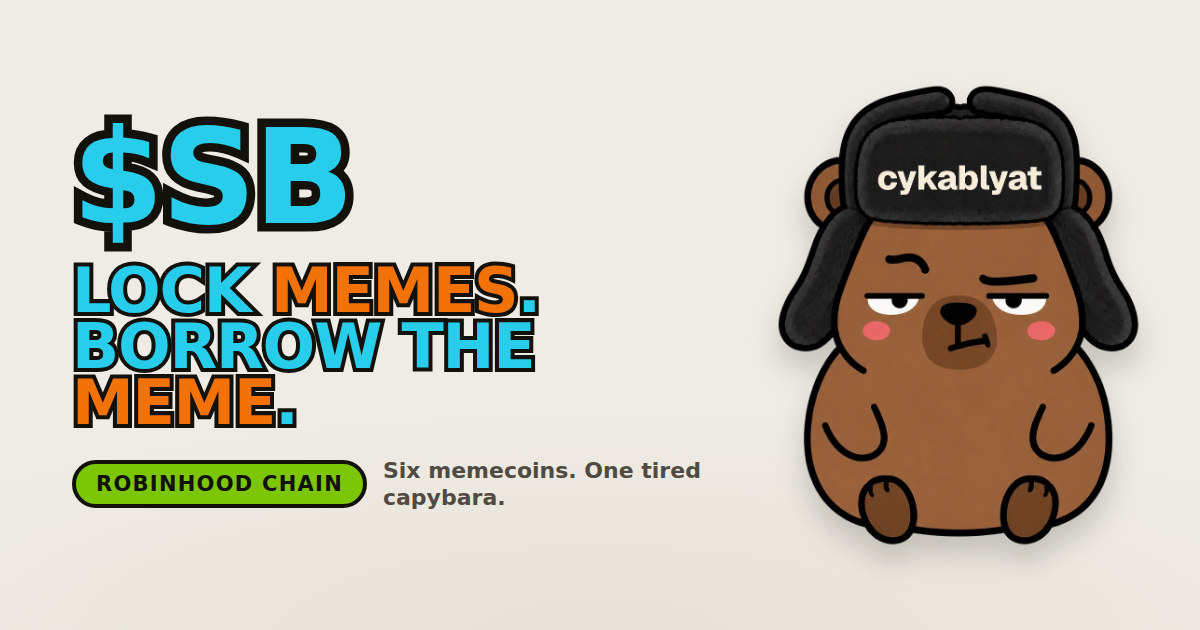
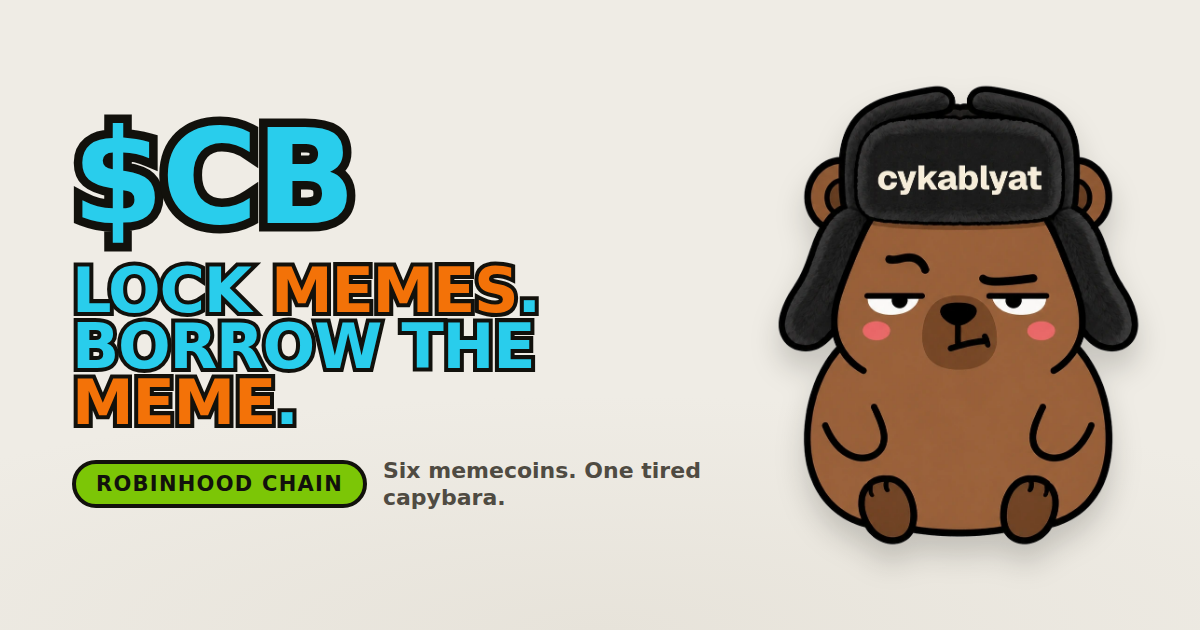
The token is $CB
The ticker followed the hat. It was $SB for "suka blyat"; the hat now says
cykablyat, so the coin is $CB and every counter, headline, aria-label and
share-card line says so.

The colour tokens are renamed with it — --sb/--sb-lit/--sb-deep become
--cb/--cb-lit/--cb-deep. They are the money colour, named after the ticker, and
leaving them on the old name is how a codebase ends up with tokens nobody can
explain. --font-sb is untouched: it is the typeface, and never meant the coin.

The favicon was a crop of the old artwork and still read "suka blyat" in the
browser tab — it is recut from the repainted mascot on the same framing. og.png
re-rendered again for the new ticker.

Not changed, because they are real accounts I cannot rename: the X handle
@sbmemecoin, t.me/sbmemetoken, and this repository's own name.

Verified: no $SB anywhere in the export, 22 viewports clean, no CSP violations,
no external requests, seven screens read by eye.

Claude-Session: https://claude.ai/code/session_01AwDL7xSUWu4HoaSM6g9izF

Changed region(s): [[0.1233, 0.181, 0.3083, 0.3921]]

diff --git a/src/components/JoinSection.tsx b/src/components/JoinSection.tsx
@@ -137,16 +137,16 @@ export function JoinSection() {
               aria-hidden="true"
             >
               <g className={s.spark} style={{ "--dx": "-52px", "--dy": "-46px" } as React.CSSProperties}>
-                <circle cx="100" cy="20" r="9" fill="var(--sb)" stroke="var(--ink)" strokeWidth="3" />
+                <circle cx="100" cy="20" r="9" fill="var(--cb)" stroke="var(--ink)" strokeWidth="3" />
               </g>
               <g className={s.spark} style={{ "--dx": "48px", "--dy": "-52px" } as React.CSSProperties}>
-                <circle cx="100" cy="20" r="7" fill="var(--sb)" stroke="var(--ink)" strokeWidth="3" />
+                <circle cx="100" cy="20" r="7" fill="var(--cb)" stroke="var(--ink)" strokeWidth="3" />
               </g>
               <g className={s.spark} style={{ "--dx": "-72px", "--dy": "-14px" } as React.CSSProperties}>
-                <circle cx="100" cy="20" r="6" fill="var(--sb)" stroke="var(--ink)" strokeWidth="3" />
+                <circle cx="100" cy="20" r="6" fill="var(--cb)" stroke="var(--ink)" strokeWidth="3" />
               </g>
               <g className={s.spark} style={{ "--dx": "70px", "--dy": "-8px" } as React.CSSProperties}>
-                <circle cx="100" cy="20" r="8" fill="var(--sb)" stroke="var(--ink)" strokeWidth="3" />
+                <circle cx="100" cy="20" r="8" fill="var(--cb)" stroke="var(--ink)" strokeWidth="3" />
               </g>
             </svg>
 

diff --git a/src/components/VaultSection.tsx b/src/components/VaultSection.tsx
@@ -191,7 +191,7 @@ export function VaultSection() {
         t.setAttribute("font-weight", "900");
         t.setAttribute("letter-spacing", "-0.4");
         t.setAttribute("fill", "#12110c");
-        t.textContent = "$SB";
+        t.textContent = "$CB";
         g.append(c, t);
 
         // Two tiers, tightened and dropped clear of the feet. Wider spacing put
@@ -395,13 +395,13 @@ export function VaultSection() {
 
       <div className="head" data-ent="up" data-ent-delay="90">
         <h1 className="sticker">
-          Lock them. Borrow <span className="hot">$SB</span>.
+          Lock them. Borrow <span className="hot">$CB</span>.
         </h1>
       </div>
 
       <div className={`middle ${s.middle}`} data-ent="up" data-ent-delay="240">
         <div className={s.readout}>
-          <div className={s.label}>$SB borrowed</div>
+          <div className={s.label}>$CB borrowed</div>
           <div className={s.value}>{borrowed.toLocaleString("en-US")}</div>
         </div>
 
@@ -414,7 +414,7 @@ export function VaultSection() {
             className={s.svg}
             viewBox="0 0 660 560"
             role="img"
-            aria-label="A machine that locks memecoins and pays out $SB"
+            aria-label="A machine that locks memecoins and pays out $CB"
           >
             <g ref={feedRef}>
               {/* Three layers, one job each: the outer group holds the coin's

diff --git a/src/components/HeroSection.tsx b/src/components/HeroSection.tsx
@@ -9,7 +9,7 @@ import { useAutoRearm } from "@/lib/useAutoRearm";
 import s from "./HeroSection.module.css";
 
 const MAX = 10;
-const PER = 4200; // $SB borrowed per coin
+const PER = 4200; // $CB borrowed per coin
 
 /** What he says, and when. Deadpan escalation. */
 const LINES: Record<number, string> = {
@@ -183,7 +183,7 @@ export function HeroSection() {
 
       <div className={`middle ${s.middle}`} data-ent="up" data-ent-delay="240">
         <div className={s.readout}>
-          <div className={s.label}>$SB borrowed</div>
+          <div className={s.label}>$CB borrowed</div>
           <div className={s.value}>{(fed * PER).toLocaleString("en-US")}</div>
         </div>
 
@@ -210,7 +210,7 @@ export function HeroSection() {
       <div className="bottom">
         <div className="hint" data-ent="up" data-ent-delay="430">
           {full
-            ? "Full. That is a lot of $SB."
+            ? "Full. That is a lot of $CB."
             : fed === 0
               ? "Feed him your bags — tap a coin"
               : `${fed} of ${MAX} bags locked`}

diff --git a/src/components/WakeSection.tsx b/src/components/WakeSection.tsx
@@ -110,7 +110,7 @@ export function WakeSection() {
 
       <div className="head" data-ent="up" data-ent-delay="90">
         <h1 className="sticker">
-          Why <span className="hot">$SB</span> exists.
+          Why <span className="hot">$CB</span> exists.
         </h1>
       </div>
 
@@ -149,12 +149,12 @@ export function WakeSection() {
               <path d="M652 442 v-96" fill="none" />
               <path
                 d="M618 292 L686 292 L678 346 L626 346 Z"
-                fill="var(--sb)"
+                fill="var(--cb)"
               />
               <path
                 className={s.lampGlow}
                 d="M626 348 L678 348 L700 456 L446 456 Z"
-                fill="var(--sb)"
+                fill="var(--cb)"
                 opacity="0"
                 stroke="none"
               />

diff --git a/src/app/globals.css b/src/app/globals.css
@@ -47,12 +47,12 @@
   --navy: #29cdec;
   --tangerine: #f37208;
 
-  /* --- value: $SB and nothing else. Counters, $SB coins, the launch button.
-         Gold is for things that are merely metal. --sb-lit exists because the
+  /* --- value: $CB and nothing else. Counters, $CB coins, the launch button.
+         Gold is for things that are merely metal. --cb-lit exists because the
          launch button's hover was a loose #8ddc0a with no token behind it. */
-  --sb: #7cc606;
-  --sb-lit: #8ddc0a;
-  --sb-deep: #5d9504;
+  --cb: #7cc606;
+  --cb-lit: #8ddc0a;
+  --cb-deep: #5d9504;
 
   /* --- metal: all hardware. Dial, throw bolts, barrel hinges, handle, chute,
          brass corners, the clock's alarm. */

diff --git a/src/components/RepaySection.module.css b/src/components/RepaySection.module.css
@@ -33,7 +33,7 @@
   font-size: clamp(1.5rem, 5vw, 2.8rem);
   line-height: 1;
   font-variant-numeric: tabular-nums;
-  color: var(--sb);
+  color: var(--cb);
   -webkit-text-stroke: 0.055em var(--ink);
 }
 
@@ -66,7 +66,7 @@
   position: absolute;
   inset: 0;
   width: 0%;
-  background: linear-gradient(90deg, var(--sb-deep), var(--sb));
+  background: linear-gradient(90deg, var(--cb-deep), var(--cb));
   border-radius: 99px 0 0 99px;
 }
 .knob {
@@ -77,7 +77,7 @@
   height: 62px;
   border-radius: 50%;
   border: 5px solid var(--ink);
-  background: var(--sb);
+  background: var(--cb);
   box-shadow: 0 4px 0 0 var(--ink);
   cursor: grab;
   display: grid;

diff --git a/src/components/RepaySection.tsx b/src/components/RepaySection.tsx
@@ -203,7 +203,7 @@ export function RepaySection() {
 
       <div className="head" data-ent="up" data-ent-delay="90">
         <h1 className="sticker">
-          Repay <span className="hot">$SB</span>. Take them back.
+          Repay <span className="hot">$CB</span>. Take them back.
         </h1>
       </div>
 
@@ -405,7 +405,7 @@ export function RepaySection() {
           className={`${s.slider} ${freed ? s.done : ""}`}
           tabIndex={0}
           role="slider"
-          aria-label="Repay $SB"
+          aria-label="Repay $CB"
           aria-valuemin={0}
           aria-valuemax={100}
           aria-valuenow={Math.round(p * 100)}

diff --git a/src/components/coins.tsx b/src/components/coins.tsx
@@ -7,8 +7,8 @@ import type { ReactNode } from "react";
  * rendered 3D coin art elsewhere in the repo is a different style and reads as
  * a second website when placed next to him.
  *
- * Six distinct hues, none of them near the $SB lime — a coin that reads as
- * $SB defeats the whole lock-one-borrow-the-other point of the first two
+ * Six distinct hues, none of them near the $CB lime — a coin that reads as
+ * $CB defeats the whole lock-one-borrow-the-other point of the first two
  * screens. Eyes and details are punched out in the coin's own background
  * colour rather than drawn, so each glyph stays a single flat shape.
  */

diff --git a/src/app/layout.tsx b/src/app/layout.tsx
@@ -21,7 +21,7 @@ const SITE_URL =
   process.env.NEXT_PUBLIC_SITE_URL ??
   "https://sbmeme.xyz";
 
-const TITLE = "$SB — Capybara Blyatovich";
+const TITLE = "$CB — Capybara Blyatovich";
 const DESCRIPTION =
   "Lock memes. Borrow the meme. A lending protocol run by one tired capybara.";
 
@@ -31,7 +31,7 @@ export const metadata: Metadata = {
   description: DESCRIPTION,
   openGraph: {
     type: "website",
-    siteName: "$SB",
+    siteName: "$CB",
     locale: "en_US",
     url: SITE_URL,
     title: TITLE,

diff --git a/src/components/JoinSection.module.css b/src/components/JoinSection.module.css
@@ -91,11 +91,11 @@
 .link svg { width: 1.15em; height: 1.15em; display: block; flex: none; }
 
 .primary {
-  background: var(--sb);
+  background: var(--cb);
   padding: 0.8rem 1.5rem;
   font-size: clamp(0.72rem, 1.9vw, 0.88rem);
 }
-.primary:hover { background: var(--sb-lit); }
+.primary:hover { background: var(--cb-lit); }
 
 /* ---- contract address: coming soon, copyable when it lands ---- */
 .ca {

diff --git a/src/components/WakeSection.module.css b/src/components/WakeSection.module.css
@@ -278,7 +278,7 @@
   text-align: center;
   /* The lamp's own colour. Same token the lampshade and its glow are painted
      with, so the line he wakes up saying is lit by the thing that woke him. */
-  color: var(--sb);
+  color: var(--cb);
   font-size: clamp(1.1rem, 4vw, 2.4rem);
   opacity: 0;
   transform: scale(0.8) rotate(-2deg);

diff --git a/src/components/HeroSection.module.css b/src/components/HeroSection.module.css
@@ -44,7 +44,7 @@
   font-size: clamp(1.6rem, 5.5vw, 3rem);
   line-height: 1;
   font-variant-numeric: tabular-nums;
-  color: var(--sb);
+  color: var(--cb);
   -webkit-text-stroke: 0.055em var(--ink);
 }
 
